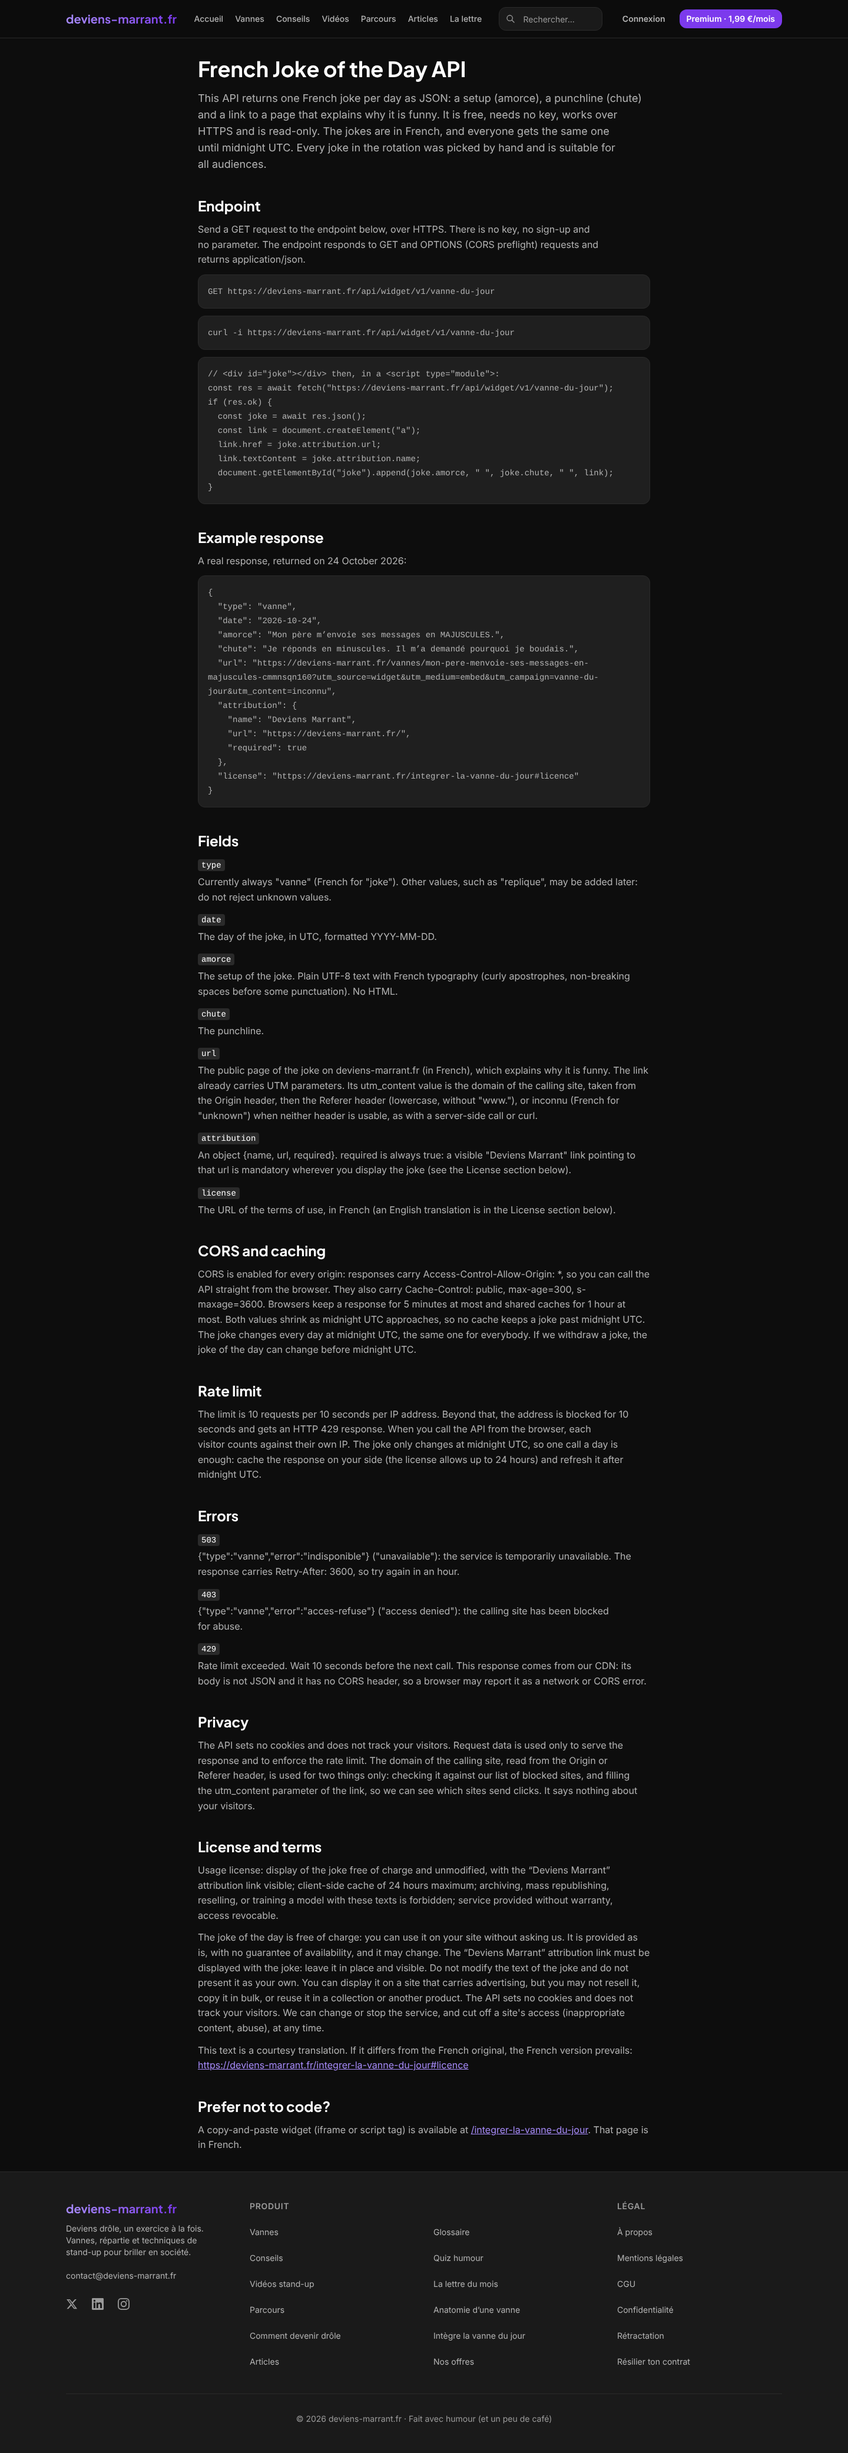
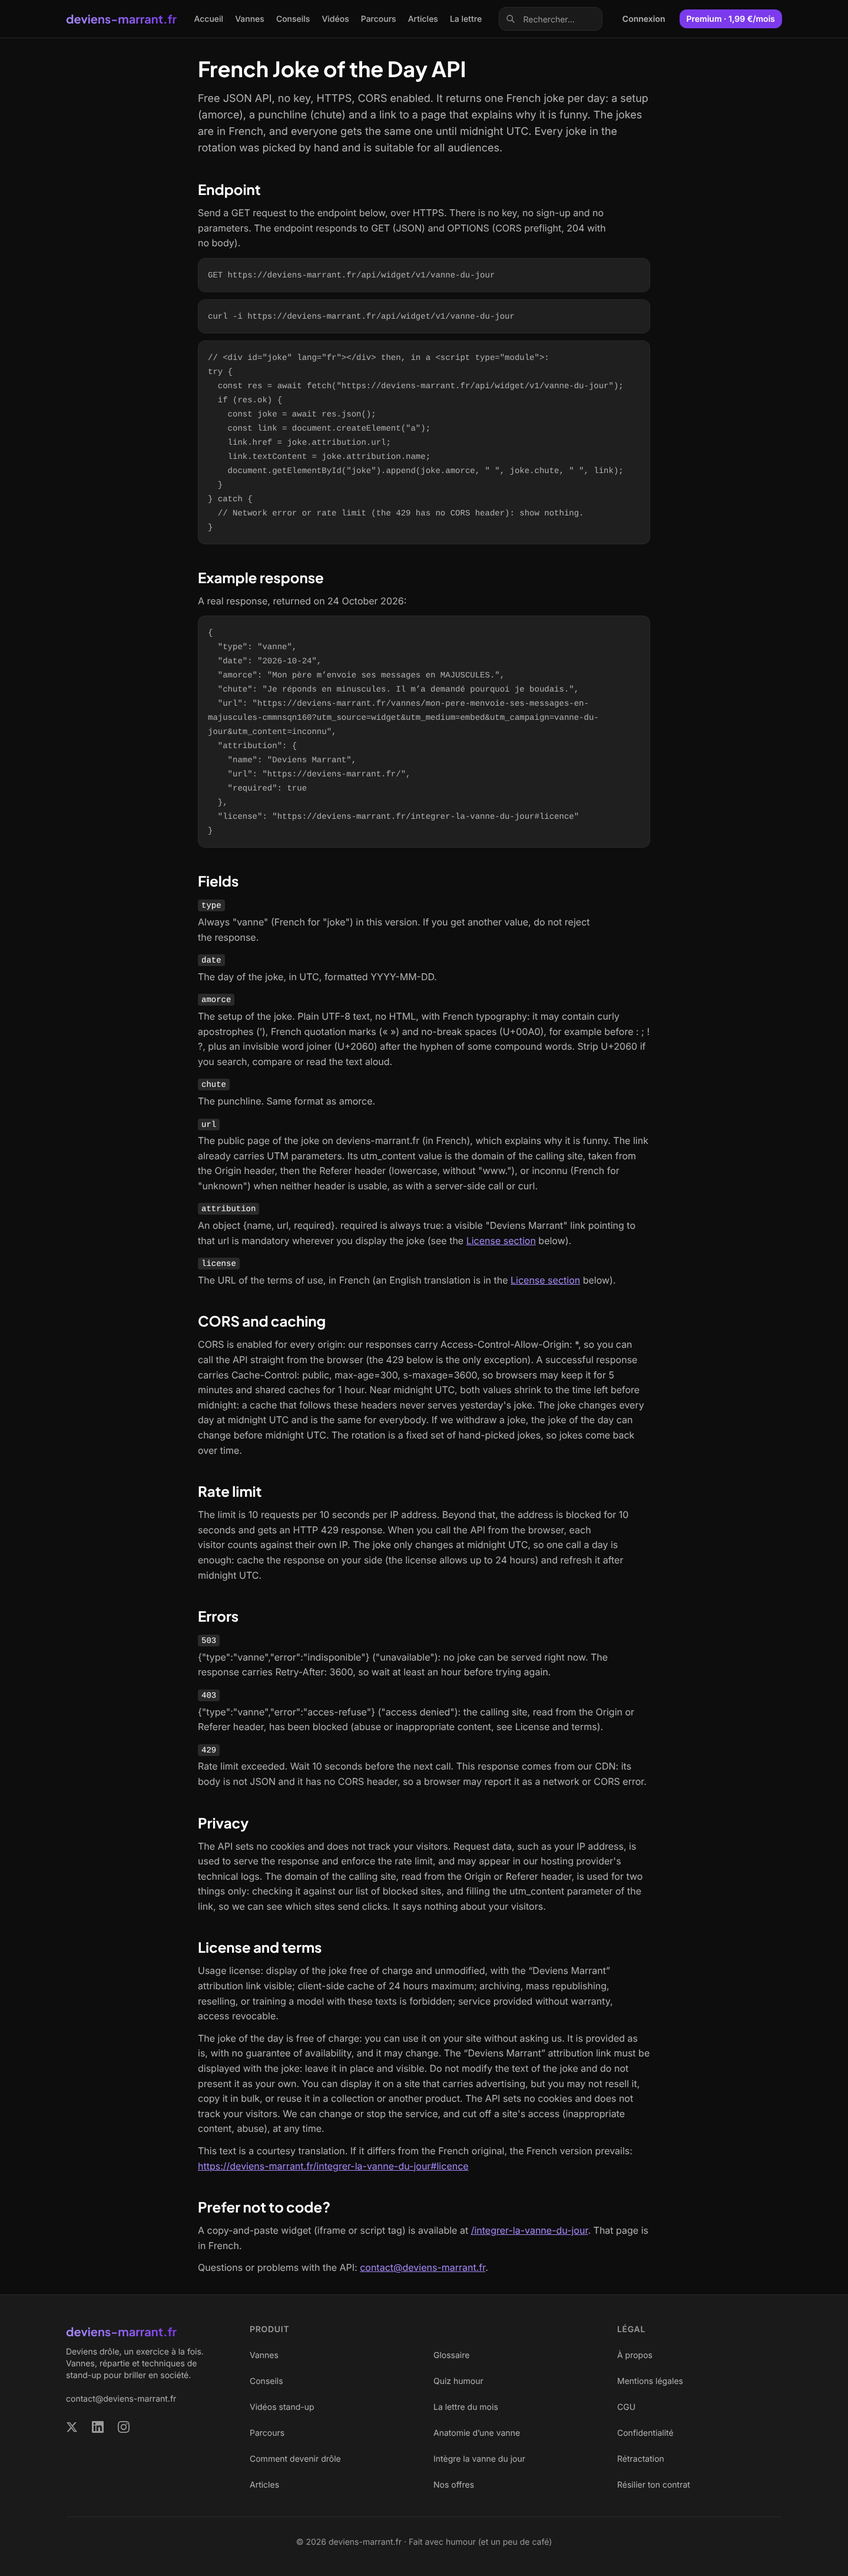
fix(widget-s22): /developers, 2e tour de relecture (format du texte, périmètre des en-têtes, 503/403 exacts, journaux, contact)
Claude-Session: https://claude.ai/code/session_01YAxbXJAdESRnkaFF4w4w5d

diff --git a/apps/web/src/config/textes/developers.ts b/apps/web/src/config/textes/developers.ts
@@ -25,11 +25,11 @@ export const H2_WIDGET = "Prefer not to code?";
 
 /** Chapeau sous le H1. */
 export const TEXTE_INTRO =
-  "This API returns one French joke per day as JSON: a setup (amorce), a punchline (chute) and a link to a page that explains why it is funny. It is free, needs no key, works over HTTPS and is read-only. The jokes are in French, and everyone gets the same one until midnight UTC. Every joke in the rotation was picked by hand and is suitable for all audiences.";
+  "Free JSON API, no key, HTTPS, CORS enabled. It returns one French joke per day: a setup (amorce), a punchline (chute) and a link to a page that explains why it is funny. The jokes are in French, and everyone gets the same one until midnight UTC. Every joke in the rotation was picked by hand and is suitable for all audiences.";
 
 /** Phrase avant l'exemple d'appel (GET https://deviens-marrant.fr/api/widget/v1/vanne-du-jour). */
 export const TEXTE_ENDPOINT =
-  "Send a GET request to the endpoint below, over HTTPS. There is no key, no sign-up and no parameter. The endpoint responds to GET and OPTIONS (CORS preflight) requests and returns application/json.";
+  "Send a GET request to the endpoint below, over HTTPS. There is no key, no sign-up and no parameters. The endpoint responds to GET (JSON) and OPTIONS (CORS preflight, 204 with no body).";
 
 /** Phrase avant l'exemple de réponse. */
 export const TEXTE_EXEMPLE = "A real response, returned on 24 October 2026:";
@@ -37,12 +37,15 @@ export const TEXTE_EXEMPLE = "A real response, returned on 24 October 2026:";
 /** Réponse réelle du 24/10/2026, à placer telle quelle dans un bloc de code. */
 export const EXEMPLE_REPONSE = `{"type":"vanne","date":"2026-10-24","amorce":"Mon père m’envoie ses messages en MAJUSCULES.","chute":"Je réponds en minuscules. Il m’a demandé pourquoi je boudais.","url":"https://deviens-marrant.fr/vannes/mon-pere-menvoie-ses-messages-en-majuscules-cmmnsqn160?utm_source=widget&utm_medium=embed&utm_campaign=vanne-du-jour&utm_content=inconnu","attribution":{"name":"Deviens Marrant","url":"https://deviens-marrant.fr/","required":true},"license":"https://deviens-marrant.fr/integrer-la-vanne-du-jour#licence"}`;
 
+/** Renvoi vers la section #license : rendu en lien dans page.tsx (attribution, license). */
+export const RENVOI_LICENCE = "License section";
+
 /** Les 7 champs de la réponse, dans l'ordre de la réponse. */
 export const CHAMPS: { nom: string; description: string }[] = [
   {
     nom: "type",
     description:
-      `Currently always "vanne" (French for "joke"). Other values, such as "replique", may be added later: do not reject unknown values.`,
+      `Always "vanne" (French for "joke") in this version. If you get another value, do not reject the response.`,
   },
   {
     nom: "date",
@@ -50,13 +53,14 @@ export const CHAMPS: { nom: string; description: string }[] = [
   },
   {
     nom: "amorce",
-    // amorce et chute passent par frTypo côté API (lib/widget/vanne-du-jour.ts).
+    // amorce et chute passent par frTypo côté API (lib/widget/vanne-du-jour.ts) : insécables
+    // U+00A0 et gluon U+2060 (lib/fr-typo.ts), d'où la mise en garde.
     description:
-      "The setup of the joke. Plain UTF-8 text with French typography (curly apostrophes, non-breaking spaces before some punctuation). No HTML.",
+      "The setup of the joke. Plain UTF-8 text, no HTML, with French typography: it may contain curly apostrophes (’), French quotation marks (« ») and no-break spaces (U+00A0), for example before : ; ! ?, plus an invisible word joiner (U+2060) after the hyphen of some compound words. Strip U+2060 if you search, compare or read the text aloud.",
   },
   {
     nom: "chute",
-    description: "The punchline.",
+    description: "The punchline. Same format as amorce.",
   },
   {
     nom: "url",
@@ -77,7 +81,7 @@ export const CHAMPS: { nom: string; description: string }[] = [
 
 /** CORS, cache, moment du changement de vanne. */
 export const TEXTE_CORS_CACHE =
-  "CORS is enabled for every origin: responses carry Access-Control-Allow-Origin: *, so you can call the API straight from the browser. They also carry Cache-Control: public, max-age=300, s-maxage=3600. Browsers keep a response for 5 minutes at most and shared caches for 1 hour at most. Both values shrink as midnight UTC approaches, so no cache keeps a joke past midnight UTC. The joke changes every day at midnight UTC, the same one for everybody. If we withdraw a joke, the joke of the day can change before midnight UTC.";
+  "CORS is enabled for every origin: our responses carry Access-Control-Allow-Origin: *, so you can call the API straight from the browser (the 429 below is the only exception). A successful response carries Cache-Control: public, max-age=300, s-maxage=3600, so browsers may keep it for 5 minutes and shared caches for 1 hour. Near midnight UTC, both values shrink to the time left before midnight: a cache that follows these headers never serves yesterday's joke. The joke changes every day at midnight UTC and is the same for everybody. If we withdraw a joke, the joke of the day can change before midnight UTC. The rotation is a fixed set of hand-picked jokes, so jokes come back over time.";
 
 /** Limite de requêtes et conseil de cache. */
 export const TEXTE_LIMITE =
@@ -91,11 +95,11 @@ export const ERREURS: { code: string; description: string }[] = [
   {
     code: "503",
     description:
-      `{"type":"vanne","error":"indisponible"} ("unavailable"): the service is temporarily unavailable. The response carries Retry-After: 3600, so try again in an hour.`,
+      `{"type":"vanne","error":"indisponible"} ("unavailable"): no joke can be served right now. The response carries Retry-After: 3600, so wait at least an hour before trying again.`,
   },
   {
     code: "403",
-    description: `{"type":"vanne","error":"acces-refuse"} ("access denied"): the calling site has been blocked for abuse.`,
+    description: `{"type":"vanne","error":"acces-refuse"} ("access denied"): the calling site, read from the Origin or Referer header, has been blocked (abuse or inappropriate content, see License and terms).`,
   },
   {
     code: "429",
@@ -106,7 +110,7 @@ export const ERREURS: { code: string; description: string }[] = [
 
 /** Vie privée : usages du domaine appelant et des données de la requête. */
 export const TEXTE_VIE_PRIVEE =
-  "The API sets no cookies and does not track your visitors. Request data is used only to serve the response and to enforce the rate limit. The domain of the calling site, read from the Origin or Referer header, is used for two things only: checking it against our list of blocked sites, and filling the utm_content parameter of the link, so we can see which sites send clicks. It says nothing about your visitors.";
+  "The API sets no cookies and does not track your visitors. Request data, such as your IP address, is used to serve the response and enforce the rate limit, and may appear in our hosting provider's technical logs. The domain of the calling site, read from the Origin or Referer header, is used for two things only: checking it against our list of blocked sites, and filling the utm_content parameter of the link, so we can see which sites send clicks. It says nothing about your visitors.";
 
 /**
  * Traduction de la ligne « Licence d'usage » et des « Conditions » (@legal), adaptée à l'API.
@@ -125,3 +129,7 @@ export const TEXTE_LICENCE = `${TEXTE_LICENCE_USAGE}\n\n${TEXTE_LICENCE_CONDITIO
 /** Renvoi vers le widget prêt à copier (page en français). Le chemin n'y figure qu'une fois (split dans page.tsx). */
 export const TEXTE_WIDGET =
   "A copy-and-paste widget (iframe or script tag) is available at /integrer-la-vanne-du-jour. That page is in French.";
+
+/** Contact, ligne à part sous TEXTE_WIDGET. L'adresse n'y figure qu'une fois (split + mailto dans page.tsx). */
+export const CONTACT_API = "contact@deviens-marrant.fr";
+export const TEXTE_CONTACT = `Questions or problems with the API: ${CONTACT_API}.`;

diff --git a/apps/web/src/__tests__/feature/developers-s22.test.tsx b/apps/web/src/__tests__/feature/developers-s22.test.tsx
@@ -26,7 +26,18 @@ jest.mock("next/navigation", () => ({
 
 import Page, { metadata } from "@/app/(dashboard)/developers/page";
 import Programme from "@/app/(dashboard)/integrer-la-vanne-du-jour/page";
-import { CHAMPS, ERREURS, H1, PAGE_TITLE, TEXTE_LICENCE_CONDITIONS, TEXTE_LICENCE_USAGE } from "@/config/textes/developers";
+import {
+  CHAMPS,
+  ERREURS,
+  H1,
+  PAGE_TITLE,
+  TEXTE_CORS_CACHE,
+  TEXTE_ENDPOINT,
+  TEXTE_INTRO,
+  TEXTE_LICENCE_CONDITIONS,
+  TEXTE_LICENCE_USAGE,
+  TEXTE_VIE_PRIVEE,
+} from "@/config/textes/developers";
 
 const ENDPOINT = "https://deviens-marrant.fr/api/widget/v1/vanne-du-jour";
 
@@ -49,7 +60,22 @@ describe("page /developers", () => {
     expect(screen.getByRole("heading", { level: 1 }).textContent).toBe(H1);
     expect(container.querySelector('div[lang="en"] h1')).toBeTruthy();
     const jsonLd = [...container.querySelectorAll('script[type="application/ld+json"]')].map((s) => JSON.parse(s.innerHTML));
-    expect(jsonLd.find((d) => d["@type"] === "WebAPI")?.name).toBe(H1);
+    const api = jsonLd.find((d) => d["@type"] === "WebAPI");
+    expect(api?.name).toBe(H1);
+    expect(api?.isAccessibleForFree).toBe(true);
+    expect(api?.offers).toEqual({ "@type": "Offer", price: 0, priceCurrency: "EUR" });
+  });
+
+  it("intro, endpoint, CORS et cache, vie privée : textes s22 v2", () => {
+    const { container } = render(<Page />);
+    const textes = [...container.querySelectorAll("p")].map((p) => p.textContent);
+    expect(TEXTE_INTRO).toMatch(/^Free JSON API, no key, HTTPS, CORS enabled\. /);
+    expect(TEXTE_ENDPOINT).toContain("no parameters. The endpoint responds to GET (JSON) and OPTIONS (CORS preflight, 204 with no body).");
+    expect(TEXTE_CORS_CACHE).toContain("(the 429 below is the only exception)");
+    expect(TEXTE_CORS_CACHE).toMatch(/so jokes come back over time\.$/);
+    expect(TEXTE_VIE_PRIVEE).toContain("may appear in our hosting provider's technical logs.");
+    expect(TEXTE_VIE_PRIVEE).not.toContain("used only to serve");
+    for (const t of [TEXTE_INTRO, TEXTE_ENDPOINT, TEXTE_CORS_CACHE, TEXTE_VIE_PRIVEE]) expect(textes).toContain(t);
   });
 
   it("endpoint, curl -i, fetch en module avec contrôle de res.ok", () => {
@@ -58,9 +84,11 @@ describe("page /developers", () => {
     expect(codes).toContain(`GET ${ENDPOINT}`);
     expect(codes).toContain(`curl -i ${ENDPOINT}`);
     const fetchJs = codes.find((c) => c.includes("fetch("))!;
-    expect(fetchJs.split("\n")[0]).toBe('// <div id="joke"></div> then, in a <script type="module">:');
+    expect(fetchJs.split("\n")[0]).toBe('// <div id="joke" lang="fr"></div> then, in a <script type="module">:');
+    expect(fetchJs.split("\n")[1]).toBe("try {");
     expect(fetchJs).toContain(`await fetch("${ENDPOINT}")`);
-    expect(fetchJs).toContain("if (res.ok) {");
+    expect(fetchJs).toContain("  if (res.ok) {");
+    expect(fetchJs).toContain("} catch {\n  // Network error or rate limit (the 429 has no CORS header): show nothing.\n}");
     expect(fetchJs).not.toContain("innerHTML");
   });
 
@@ -68,13 +96,35 @@ describe("page /developers", () => {
     const { container } = render(<Page />);
     expect(codesDl(container, "Fields")).toEqual(["type", "date", "amorce", "chute", "url", "attribution", "license"]);
     expect(CHAMPS).toHaveLength(7);
+    const desc = (nom: string) => CHAMPS.find((c) => c.nom === nom)?.description;
+    expect(desc("type")).toBe('Always "vanne" (French for "joke") in this version. If you get another value, do not reject the response.');
+    expect(desc("amorce")).toBe(
+      "The setup of the joke. Plain UTF-8 text, no HTML, with French typography: it may contain curly apostrophes (’), French quotation marks (« ») and no-break spaces (U+00A0), for example before : ; ! ?, plus an invisible word joiner (U+2060) after the hyphen of some compound words. Strip U+2060 if you search, compare or read the text aloud.",
+    );
+    expect(desc("chute")).toBe("The punchline. Same format as amorce.");
+  });
+
+  it("renvois « License section below » : liens vers #license, texte inchangé", () => {
+    const { container } = render(<Page />);
+    const liens = [...container.querySelectorAll('dd a[href="#license"]')];
+    expect(liens.map((a) => a.textContent)).toEqual(["License section", "License section"]);
+    expect(liens.map((a) => a.closest("dd")?.textContent)).toEqual([
+      CHAMPS.find((c) => c.nom === "attribution")?.description,
+      CHAMPS.find((c) => c.nom === "license")?.description,
+    ]);
+    expect(container.querySelector("#license")).toBeTruthy();
   });
 
   it("erreurs en liste <dl> : 503, 403, 429 (429 venu du CDN, sans CORS ni JSON)", () => {
     const { container } = render(<Page />);
     expect(codesDl(container, "Errors")).toEqual(["503", "403", "429"]);
     expect(ERREURS.find((e) => e.code === "429")?.description).toContain("no CORS header");
-    expect(ERREURS.find((e) => e.code === "503")?.description).toContain("Retry-After: 3600");
+    expect(ERREURS.find((e) => e.code === "503")?.description).toContain(
+      '("unavailable"): no joke can be served right now. The response carries Retry-After: 3600, so wait at least an hour before trying again.',
+    );
+    expect(ERREURS.find((e) => e.code === "403")?.description).toContain(
+      '("access denied"): the calling site, read from the Origin or Referer header, has been blocked (abuse or inappropriate content, see License and terms).',
+    );
   });
 
   it("exemple de réponse indenté, JSON valide", () => {
@@ -95,13 +145,17 @@ describe("page /developers", () => {
     expect(foi?.textContent).toBe("https://deviens-marrant.fr/integrer-la-vanne-du-jour#licence");
   });
 
-  it("lien interne vers le programme, aucune typo française, aucun tiret cadratin", () => {
+  it("lien interne vers le programme, contact mailto, aucune typo française, aucun tiret cadratin", () => {
     const { container } = render(<Page />);
     const widget = container.querySelector('a[href="/integrer-la-vanne-du-jour"]');
     expect(widget?.textContent).toBe("/integrer-la-vanne-du-jour");
     expect(widget?.closest("p")?.textContent).toBe(
       "A copy-and-paste widget (iframe or script tag) is available at /integrer-la-vanne-du-jour. That page is in French.",
     );
+    const contact = container.querySelector('a[href="mailto:contact@deviens-marrant.fr"]');
+    expect(contact?.textContent).toBe("contact@deviens-marrant.fr");
+    expect(contact?.closest("p")?.textContent).toBe("Questions or problems with the API: contact@deviens-marrant.fr.");
+    expect(contact?.closest("p")?.previousElementSibling).toBe(widget?.closest("p"));
     expect(container.textContent).not.toMatch(/[  ]/);
     expect(container.textContent).not.toMatch(/[—–]/);
   });

diff --git a/apps/web/src/app/(dashboard)/developers/page.tsx b/apps/web/src/app/(dashboard)/developers/page.tsx
@@ -29,6 +29,9 @@ import {
   TEXTE_LICENCE_CONDITIONS,
   TEXTE_LICENCE_FOI,
   TEXTE_WIDGET,
+  RENVOI_LICENCE,
+  CONTACT_API,
+  TEXTE_CONTACT,
 } from "@/config/textes/developers";
 import {
   DEVELOPERS_PATH,
@@ -76,6 +79,7 @@ const webApiJsonLd = {
   documentation: PAGE_URL,
   termsOfService: WIDGET_LICENCE_URL,
   isAccessibleForFree: true,
+  offers: { "@type": "Offer", price: 0, priceCurrency: "EUR" },
   provider: PROVIDER,
 };
 
@@ -83,21 +87,27 @@ const EXEMPLE_JSON = JSON.stringify(JSON.parse(EXEMPLE_REPONSE), null, 2);
 // -i : le dev voit tout de suite les en-têtes CORS et cache documentés.
 const EXEMPLE_CURL = `curl -i ${API_URL}`;
 // await de premier niveau : valide seulement dans un <script type="module"> (dit en commentaire).
+// try/catch : le 429 sans CORS arrive côté navigateur comme une erreur réseau.
 const EXEMPLE_FETCH = [
-  '// <div id="joke"></div> then, in a <script type="module">:',
-  `const res = await fetch("${API_URL}");`,
-  "if (res.ok) {",
-  "  const joke = await res.json();",
-  '  const link = document.createElement("a");',
-  "  link.href = joke.attribution.url;",
-  "  link.textContent = joke.attribution.name;",
-  '  document.getElementById("joke").append(joke.amorce, " ", joke.chute, " ", link);',
+  '// <div id="joke" lang="fr"></div> then, in a <script type="module">:',
+  "try {",
+  `  const res = await fetch("${API_URL}");`,
+  "  if (res.ok) {",
+  "    const joke = await res.json();",
+  '    const link = document.createElement("a");',
+  "    link.href = joke.attribution.url;",
+  "    link.textContent = joke.attribution.name;",
+  '    document.getElementById("joke").append(joke.amorce, " ", joke.chute, " ", link);',
+  "  }",
+  "} catch {",
+  "  // Network error or rate limit (the 429 has no CORS header): show nothing.",
   "}",
 ].join("\n");
 
 const URL_FOI = TEXTE_LICENCE_FOI.slice(TEXTE_LICENCE_FOI.indexOf("https://"));
 const AVANT_URL_FOI = TEXTE_LICENCE_FOI.slice(0, TEXTE_LICENCE_FOI.length - URL_FOI.length);
 const [AVANT_LIEN_WIDGET, APRES_LIEN_WIDGET] = TEXTE_WIDGET.split(WIDGET_PROGRAMME_PATH);
+const [AVANT_CONTACT, APRES_CONTACT] = TEXTE_CONTACT.split(CONTACT_API);
 
 const H2 = "font-display mt-10 text-2xl font-bold";
 const P = "mt-3 text-text-secondary";
@@ -105,6 +115,21 @@ const CODE = "rounded bg-background-elevated px-1.5 py-0.5 text-sm text-text-pri
 const PRE =
   "mt-3 overflow-x-auto whitespace-pre-wrap rounded-lg border border-border bg-background-card p-4 [overflow-wrap:anywhere] text-sm leading-6 text-text-secondary focus-visible:outline-none focus-visible:ring-2 focus-visible:ring-inset focus-visible:ring-accent-primary";
 const LIEN = "text-accent-link underline hover:text-text-primary";
+
+/** Description de champ : le renvoi « License section » devient un lien vers #license. */
+function AvecRenvoiLicence({ texte }: { texte: string }) {
+  const [avant, apres] = texte.split(RENVOI_LICENCE);
+  if (apres === undefined) return <>{texte}</>;
+  return (
+    <>
+      {avant}
+      <a href="#license" className={LIEN}>
+        {RENVOI_LICENCE}
+      </a>
+      {apres}
+    </>
+  );
+}
 
 function Bloc({ label, code }: { label: string; code: string }) {
   return (
@@ -142,7 +167,9 @@ export default function DevelopersPage() {
               <dt>
                 <code className={CODE}>{champ.nom}</code>
               </dt>
-              <dd className="mt-1 text-text-secondary">{champ.description}</dd>
+              <dd className="mt-1 text-text-secondary">
+                <AvecRenvoiLicence texte={champ.description} />
+              </dd>
             </div>
           ))}
         </dl>
@@ -185,6 +212,13 @@ export default function DevelopersPage() {
             {WIDGET_PROGRAMME_PATH}
           </Link>
           {APRES_LIEN_WIDGET}
+        </p>
+        <p className={P}>
+          {AVANT_CONTACT}
+          <a href={`mailto:${CONTACT_API}`} className={LIEN}>
+            {CONTACT_API}
+          </a>
+          {APRES_CONTACT}
         </p>
       </div>
     </>
